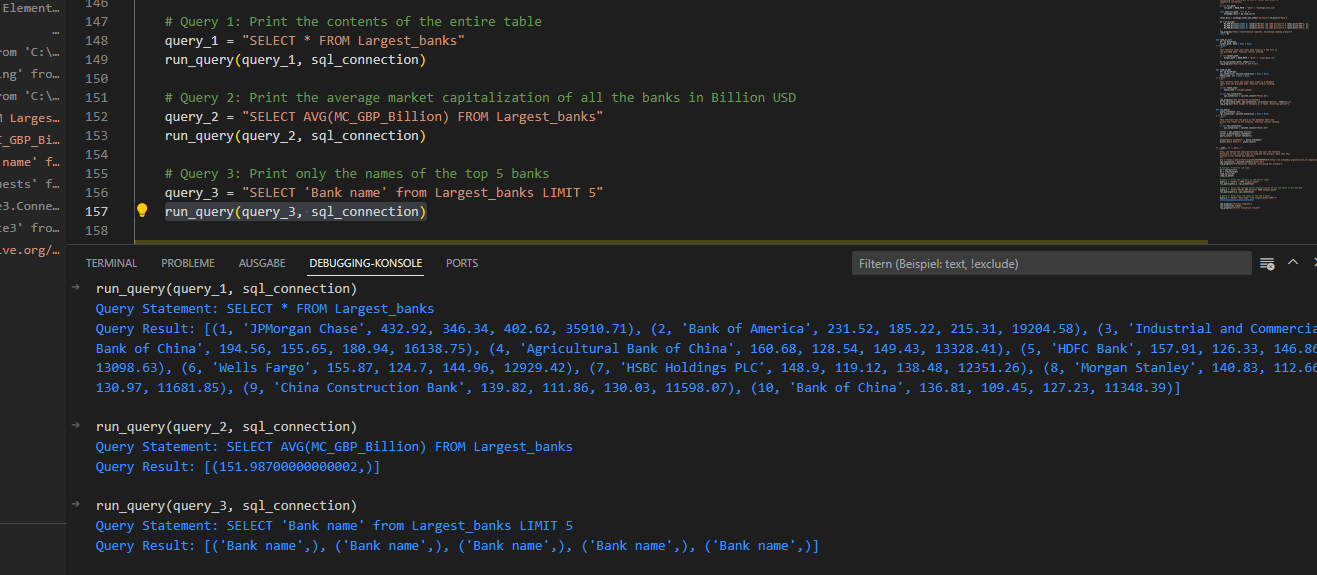
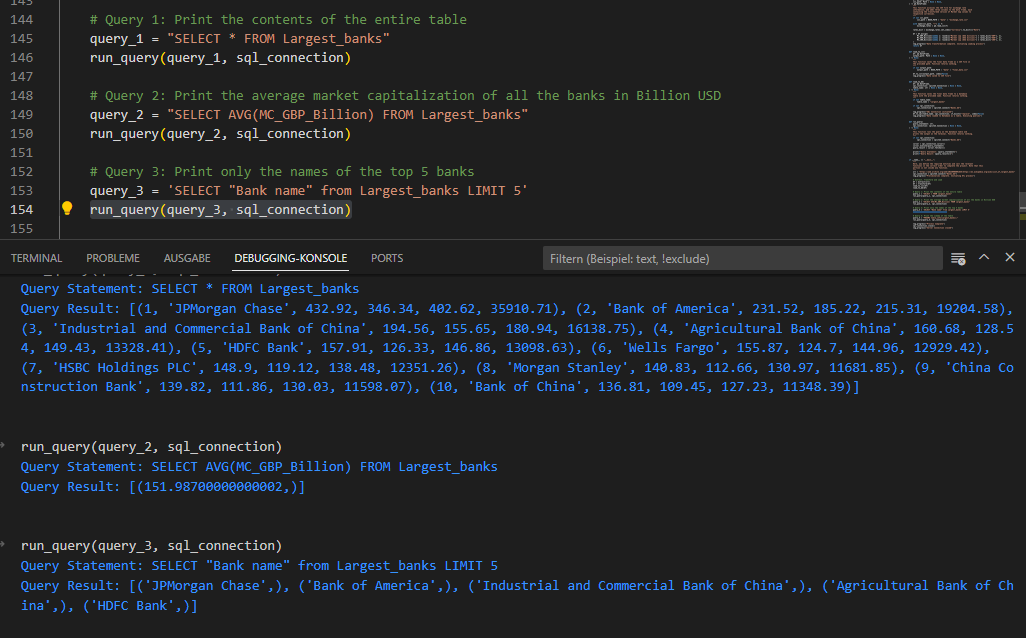
fix: small SQL fix

Changed region(s): [[0.0, 0.0, 1.0, 0.9757], [0.8109, 0.887, 0.9669, 0.9461], [0.9981, 0.4435, 1.0, 0.473]]

diff --git a/src/banks_project.py b/src/banks_project.py
@@ -150,8 +150,12 @@ if __name__ == "__main__":
     run_query(query_2, sql_connection)
     
     # Query 3: Print only the names of the top 5 banks
-    query_3 = "SELECT 'Bank name' from Largest_banks LIMIT 5"
+    query_3 = 'SELECT "Bank name" from Largest_banks LIMIT 5'
     run_query(query_3, sql_connection)
+    
+    # Query 4: Print the schema of the table
+    query_4 = "PRAGMA table_info(Largest_banks);"
+    run_query(query_4, sql_connection)
     
     log_progress("Process Complete")
     sql_connection.close()
